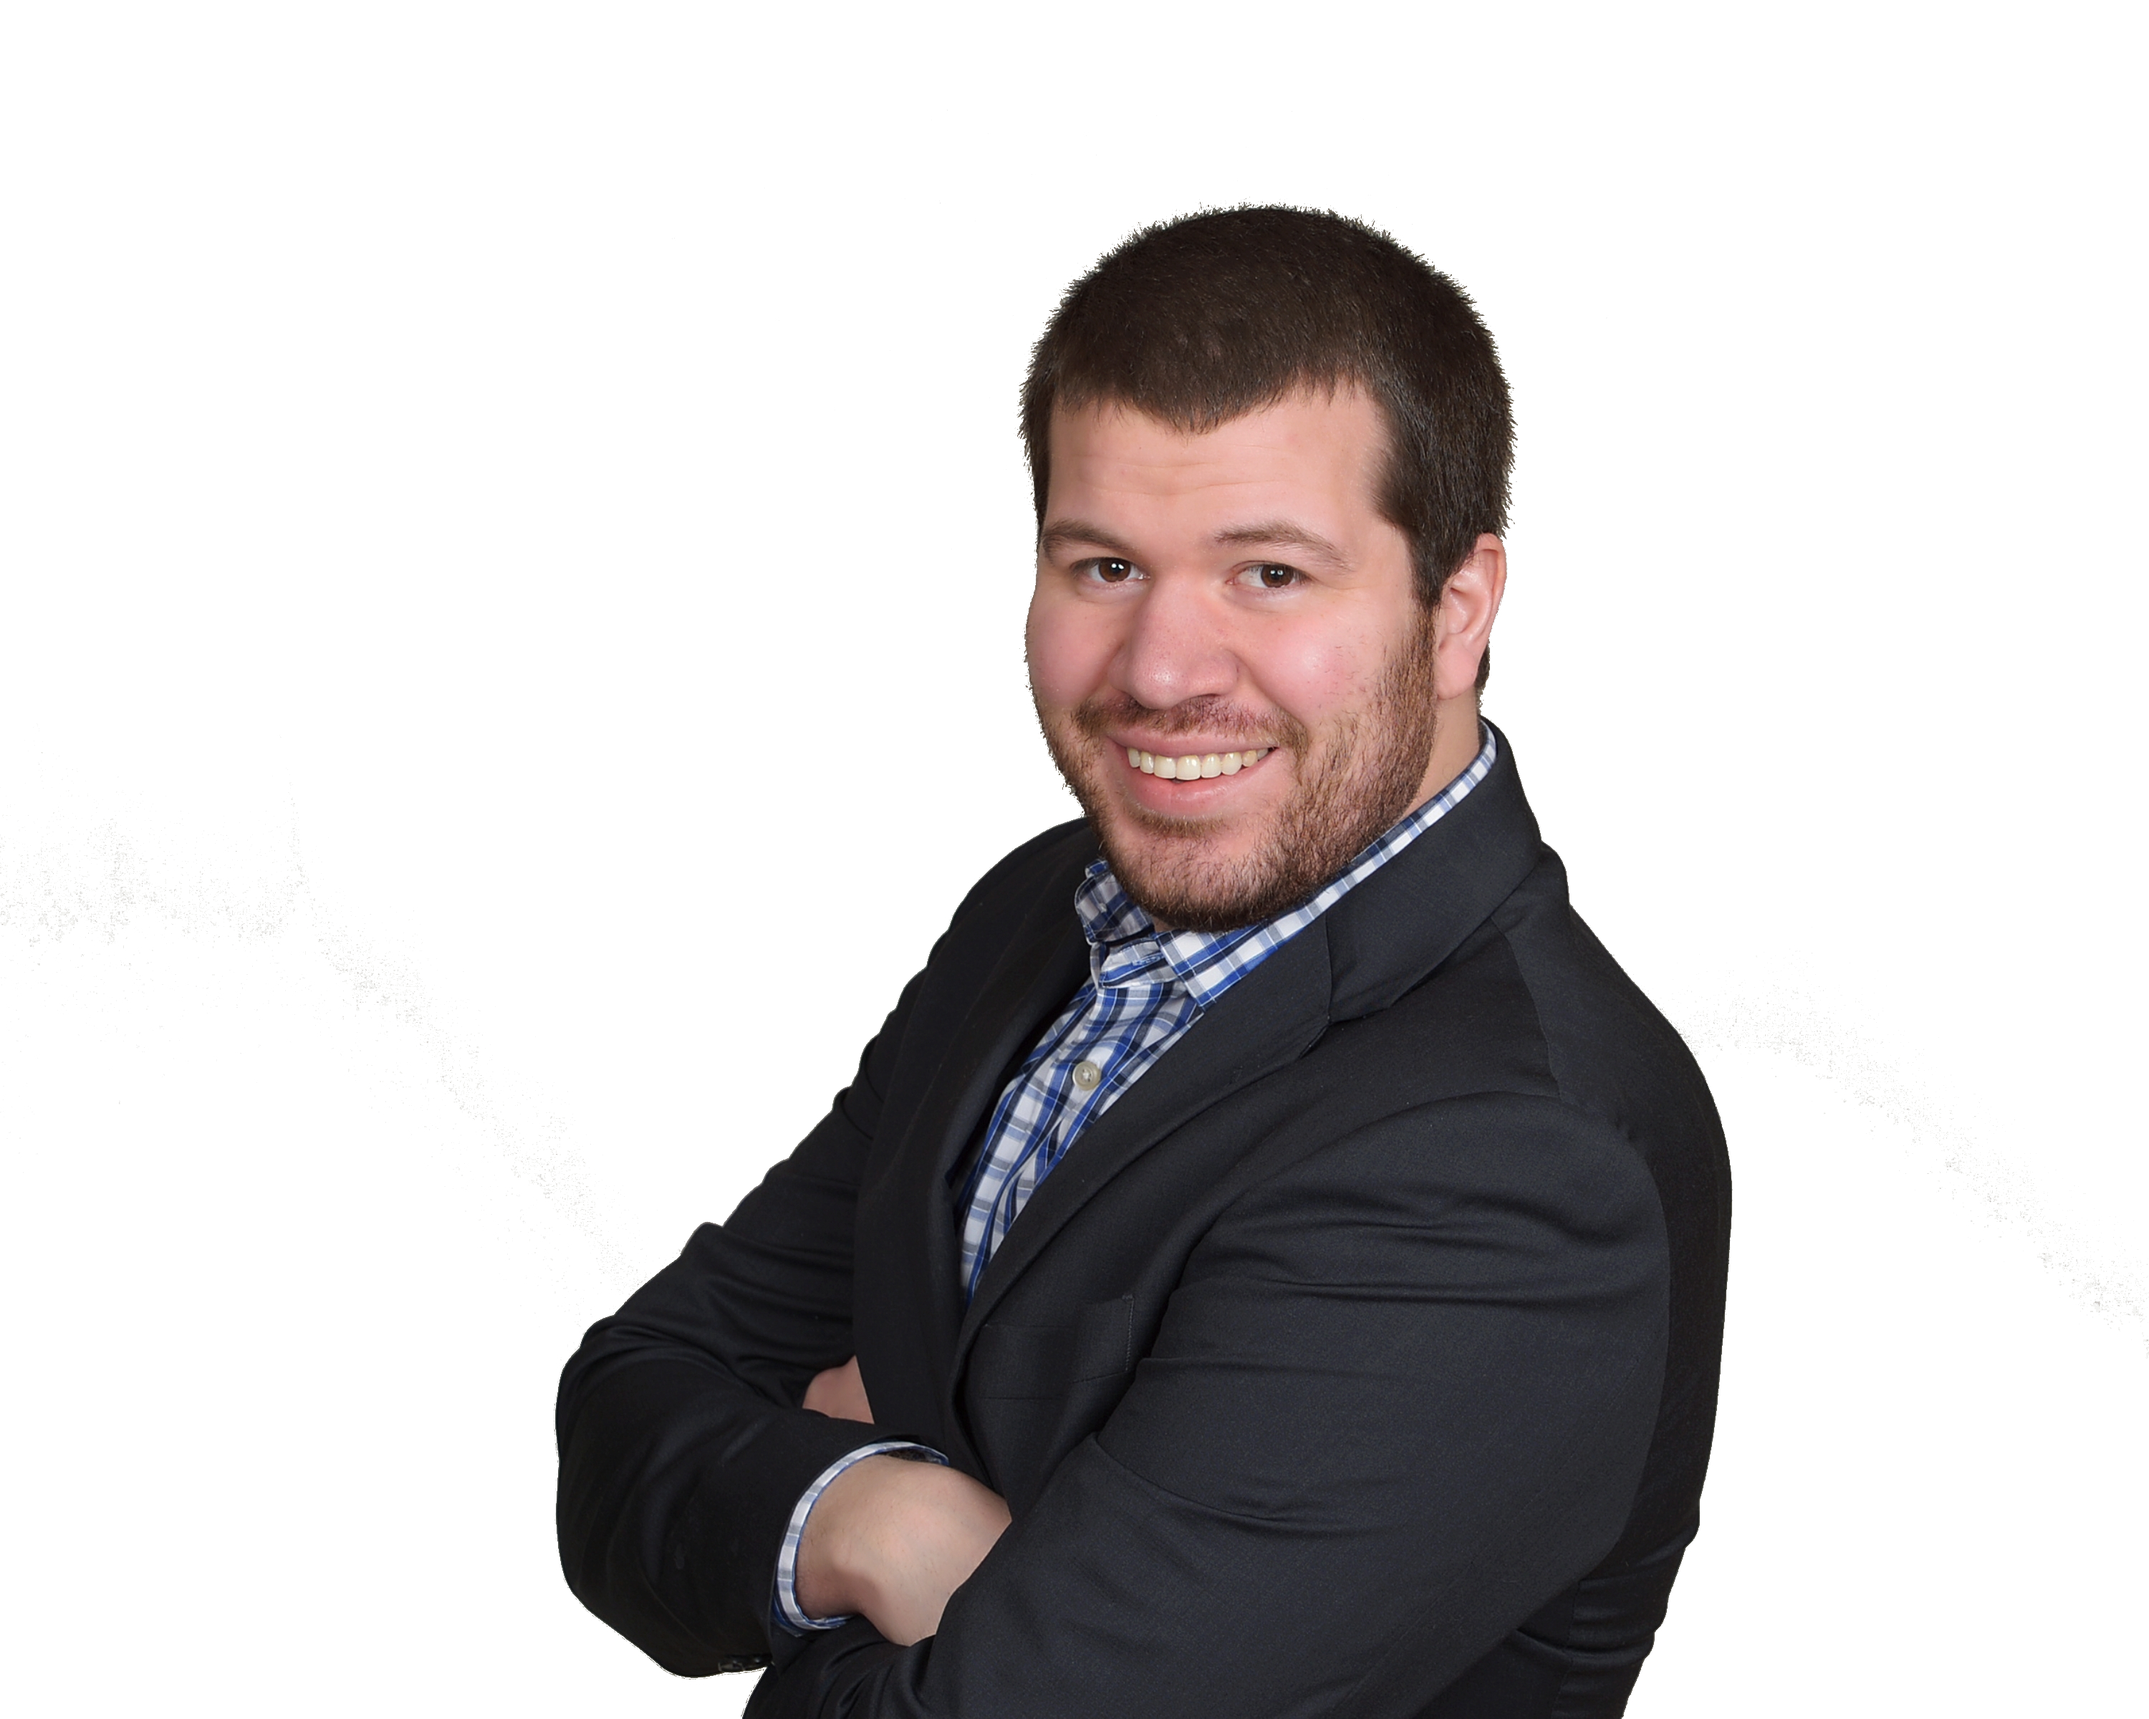
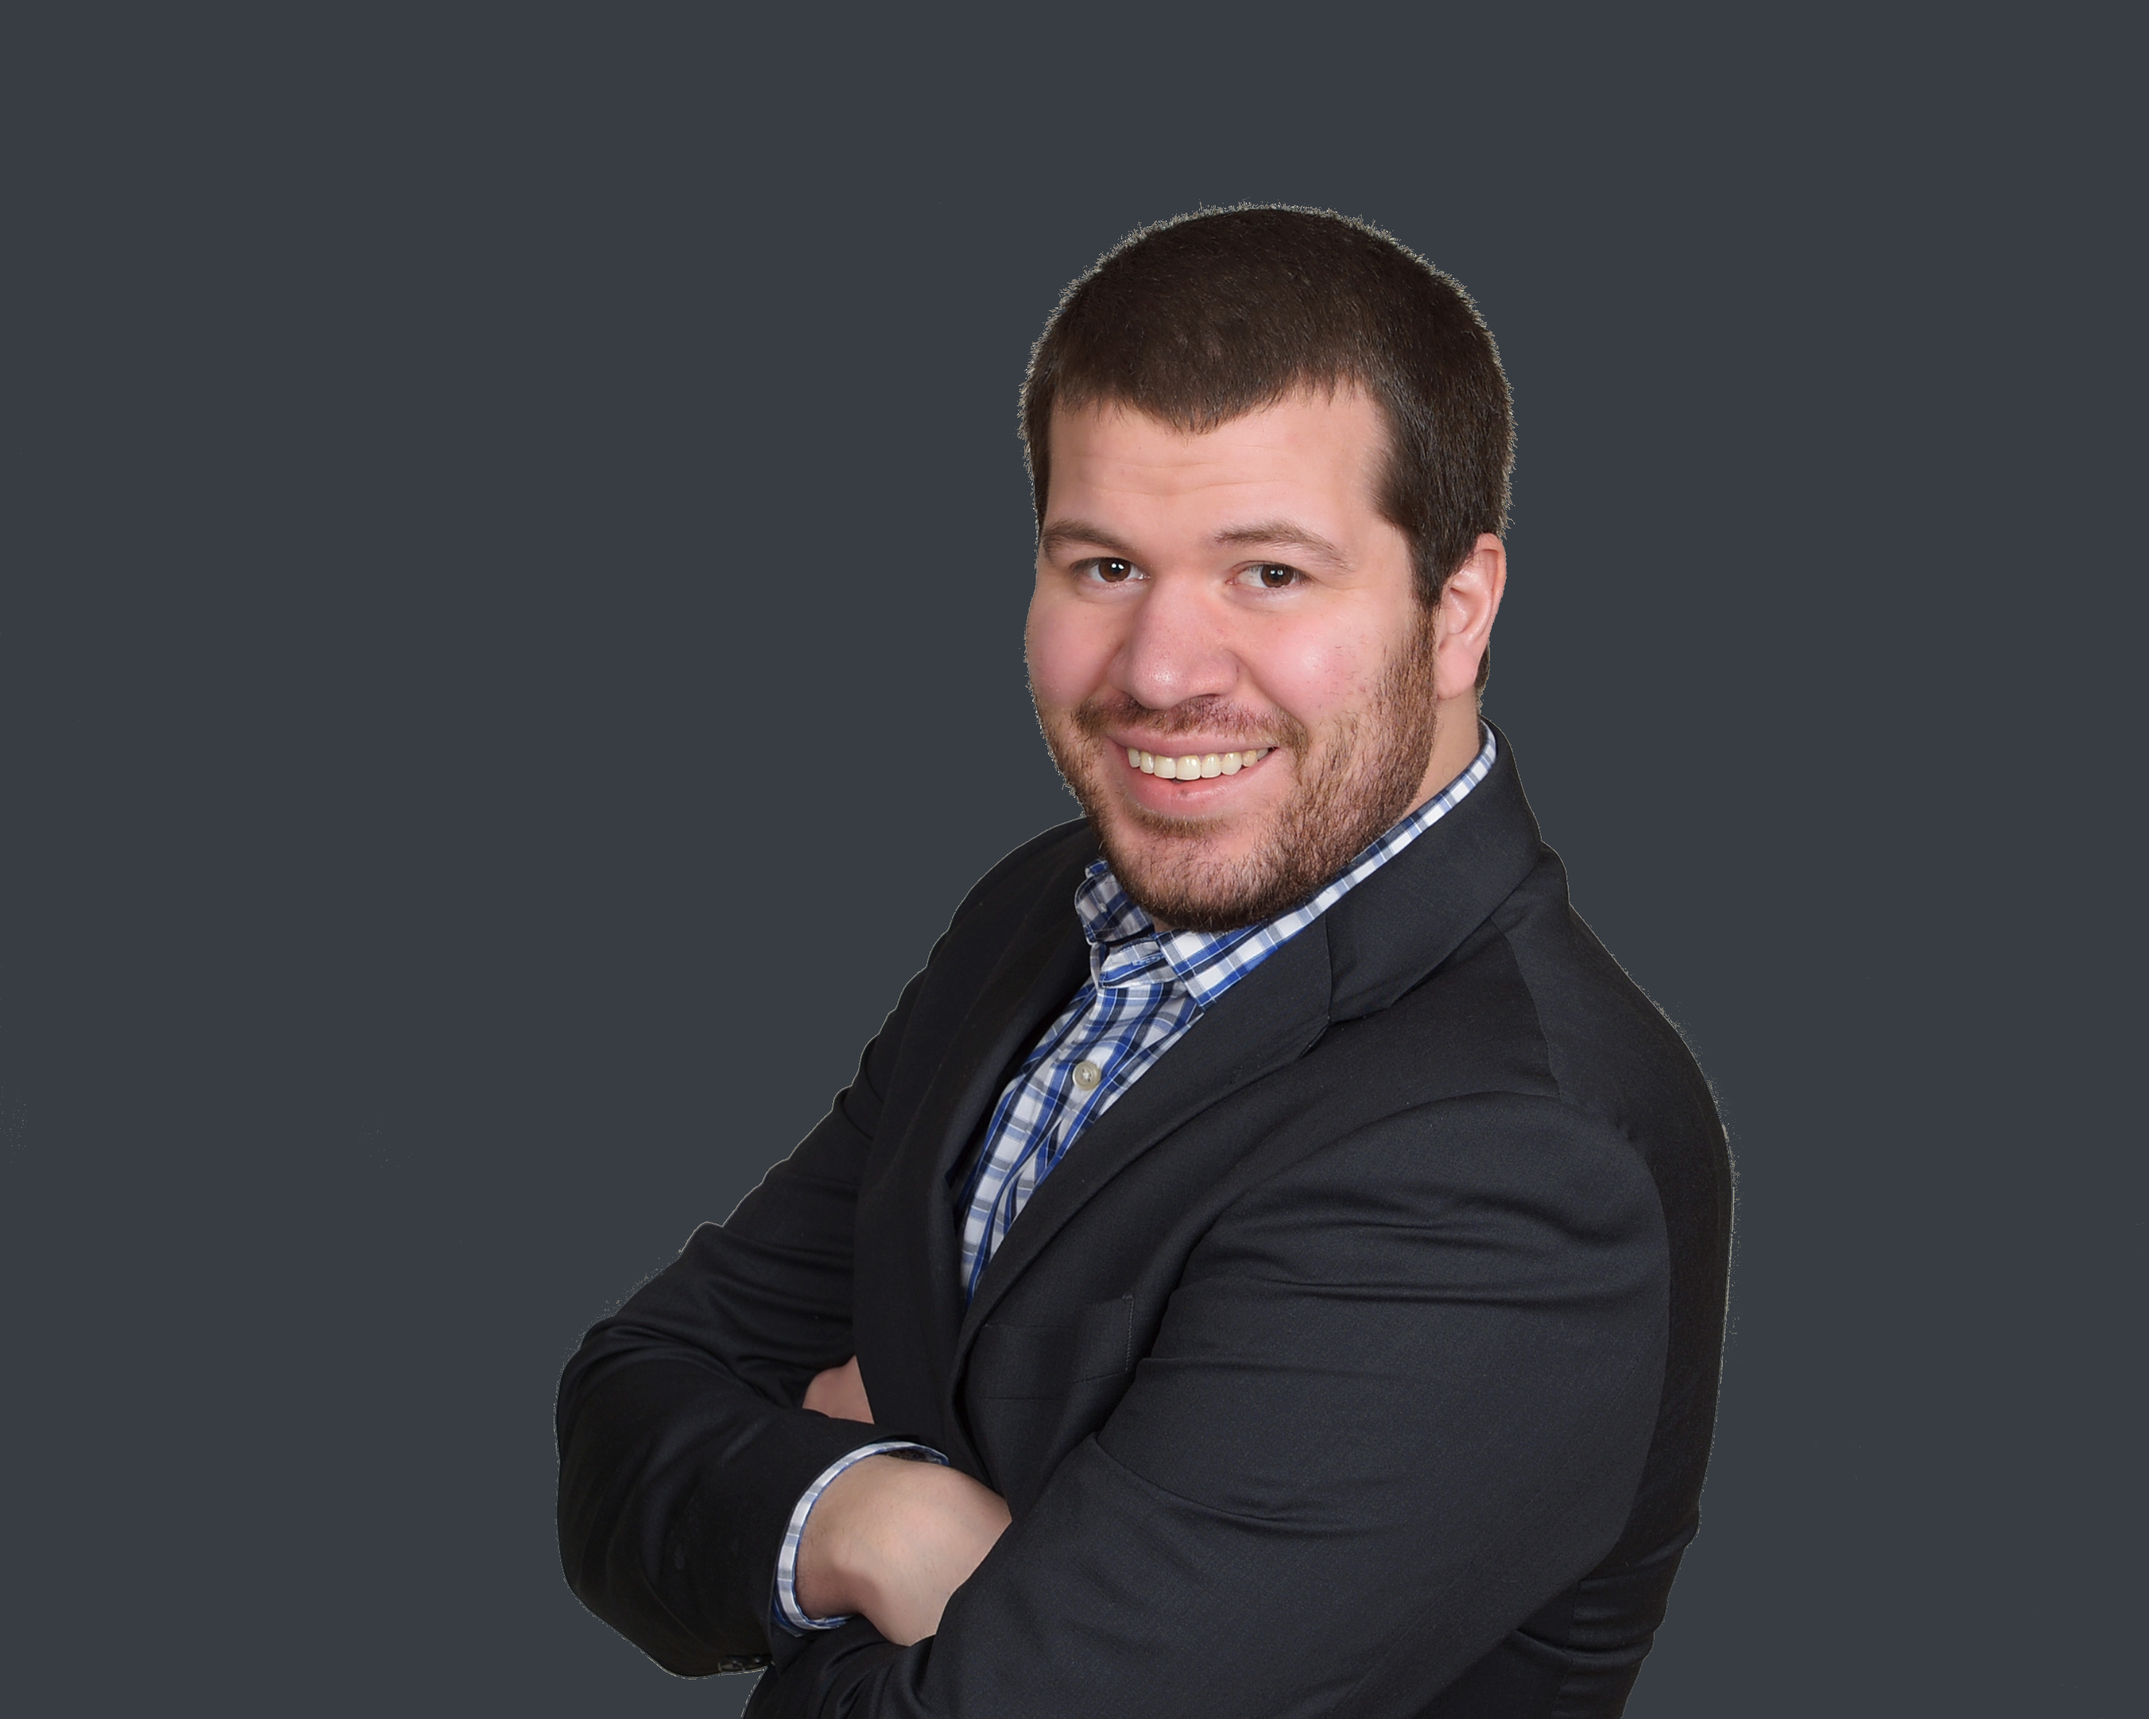
working on footer with alpha layer image

diff --git a/index.html b/index.html
@@ -9,6 +9,7 @@
     <link rel="stylesheet" type="text/css" href="styles/reset.css">
     <link rel="stylesheet" type="text/css" href="styles/index.css" />
     <link rel="icon" type="image/png" href="./assets/icon-small.jpg">
+    <link href="https://fonts.googleapis.com/css?family=Josefin+Sans|Raleway" rel="stylesheet">
 </head>
 <body>
     <main class='background'>
@@ -38,8 +39,8 @@
         </div>
         <div class="portfolio-title">PORTFOLIO</div>
         <div class='portfolio'>
-            <div class='flex-align-center column'>
-                <h2 class='title inline-flex'><hr class='hr-custom right'>Helpful<hr class='hr-custom left'></h2>
+            <div class='flex-align-center column spacer'>
+                <h2 class='title inline-flex'>Helpful</h2>
                 <a id='portfolio-station' target=“_blank” href="https://helpful-client.herokuapp.com/">
                     <img class='portfolio-img' src='./assets/Helpful.PNG'>
                 </a>
@@ -53,8 +54,8 @@
                 <span class='secondary-title'>APIs: </span>
                 <span class='text'>Google Maps API</span>
             </div>
-            <div class='flex-align-center column'>
-                <h2 class='title inline-flex'><hr class='hr-custom right'>Double Jump<hr class='hr-custom left'></h2>
+            <div class='flex-align-center column spacer'>
+                <h2 class='title inline-flex'>Double Jump</h2>
                 <a  target=“_blank” href="https://doublejumps.herokuapp.com/">
                     <img class='portfolio-img' src='./assets/Doublejump.PNG'>
                 </a>
@@ -67,7 +68,7 @@
                 <span class='text'>Mongodb, Node.js, React, Express, Passport, Mocha/Chai</span>
             </div>
             <div class='flex-align-center column'>
-                <h2 class='title inline-flex'><hr class='hr-custom right'>Coming Soon<hr class='hr-custom left'></h2>
+                <h2 class='title inline-flex'>Coming Soon</h2>
                 <a  target=“_blank” href='#'>
                     <img class='portfolio-img' src='./assets/comingsoon.jpg'>
                 </a>
@@ -82,6 +83,7 @@
                 <span class='text'>Google Maps API</span>
             </div>
         </div>
+        <img class='alpha-img' src='./assets/alphalayerme.jpg'>
         <div class='footer flex-align-center'>
         </div>
     </main>
@@ -91,13 +93,6 @@
         setup();
     </script>
     <script>
-        $(document).ready(function () {
-            $('.portfolio-button').on('click', event => {
-                window.scrollTo(0, window.screen.height);
-                event.preventDefault();
-            });
-        });
-
         enterView({
             selector: '.flex-align-center',
             enter: function(el) {

diff --git a/styles/index.css b/styles/index.css
@@ -46,7 +46,7 @@ html{
     max-width: 250px;
     border: 4px solid #00aeb3;
     color: #00aeb3;
-    font-family: 'Permanent Marker', cursive;
+    font-family: 'Raleway', sans-serif;
 }
 
 button{
@@ -76,9 +76,18 @@ button{
     border-bottom: 4px solid #00aeb3;
 }
 
+.alpha-img{
+    width: 30vw;
+}
+
+.spacer{
+    margin-right: 3vw;
+}
+
 .portfolio{
+    display:flex;
     padding: 3%;
-    margin: 5% 15% 5% 15%;
+    margin: 5% 5% 5% 5%;
     border: 2px solid #7fd6d9;
 }
 
@@ -98,7 +107,7 @@ button{
     text-align: center;
     margin-bottom: 4vh;
     margin-top: 1vh;
-    font-family: 'Permanent Marker', cursive;
+    font-family: 'Josefin Sans Semibold', sans-serif;
 }
 
 .secondary-title{
@@ -107,7 +116,7 @@ button{
     text-align: center;
     margin-bottom: 2vh;
     margin-top: 1vh;
-    font-family: 'Permanent Marker', cursive;
+    font-family: 'Josefin Sans Semibold', sans-serif;
 }
 
 .text{
@@ -115,7 +124,7 @@ button{
     font-size: 2vw;
     text-align: center;
     margin-bottom: 4vh; 
-    font-family: 'Permanent Marker', cursive;
+    font-family: 'Raleway', sans-serif;
 }
 
 .landing-text{
@@ -153,7 +162,7 @@ button{
     font-size: 2vw;
     text-align: center;
     transition: 0.3s;
-    font-family: 'Permanent Marker', cursive;
+    font-family: 'Josefin Sans Semibold', sans-serif;
 }
 
 a{
@@ -199,7 +208,7 @@ a{
     margin-bottom: 2em;
     width: 25vw;
     border: 2px solid #7fd6d9;
-
+    background-color: transparent;
 }
 
 .contact-img{
@@ -222,7 +231,11 @@ a{
     }
 }
 
-@media only screen and (max-width: 600px) {
+@media only screen and (max-width: 800px) {
+    .portfolio{
+        display:block;
+    }
+    
     .github{
         font-size: 3vw;
     }

diff --git a/scripts/main.js b/scripts/main.js
@@ -1,12 +1,18 @@
 function setup() {
     $(document).ready(function () {
-        $('.portfolio-button').on('click', event => {
-            document.getElementById('portfolio-station').scrollIntoView({
-                behavior: 'smooth'
-            });
-            event.preventDefault();
-        });
+        // $('.portfolio-button').on('click', event => {
+        //     document.getElementById('portfolio-station').scrollIntoView({
+        //         behavior: 'smooth'
+        //     });
+        //     event.preventDefault();
+        // });
 
+        $(document).ready(function () {
+            $('.portfolio-button').on('click', event => {
+                window.scrollTo(0, window.screen.height);
+                event.preventDefault();
+            });
+        });
 
     });
 }
